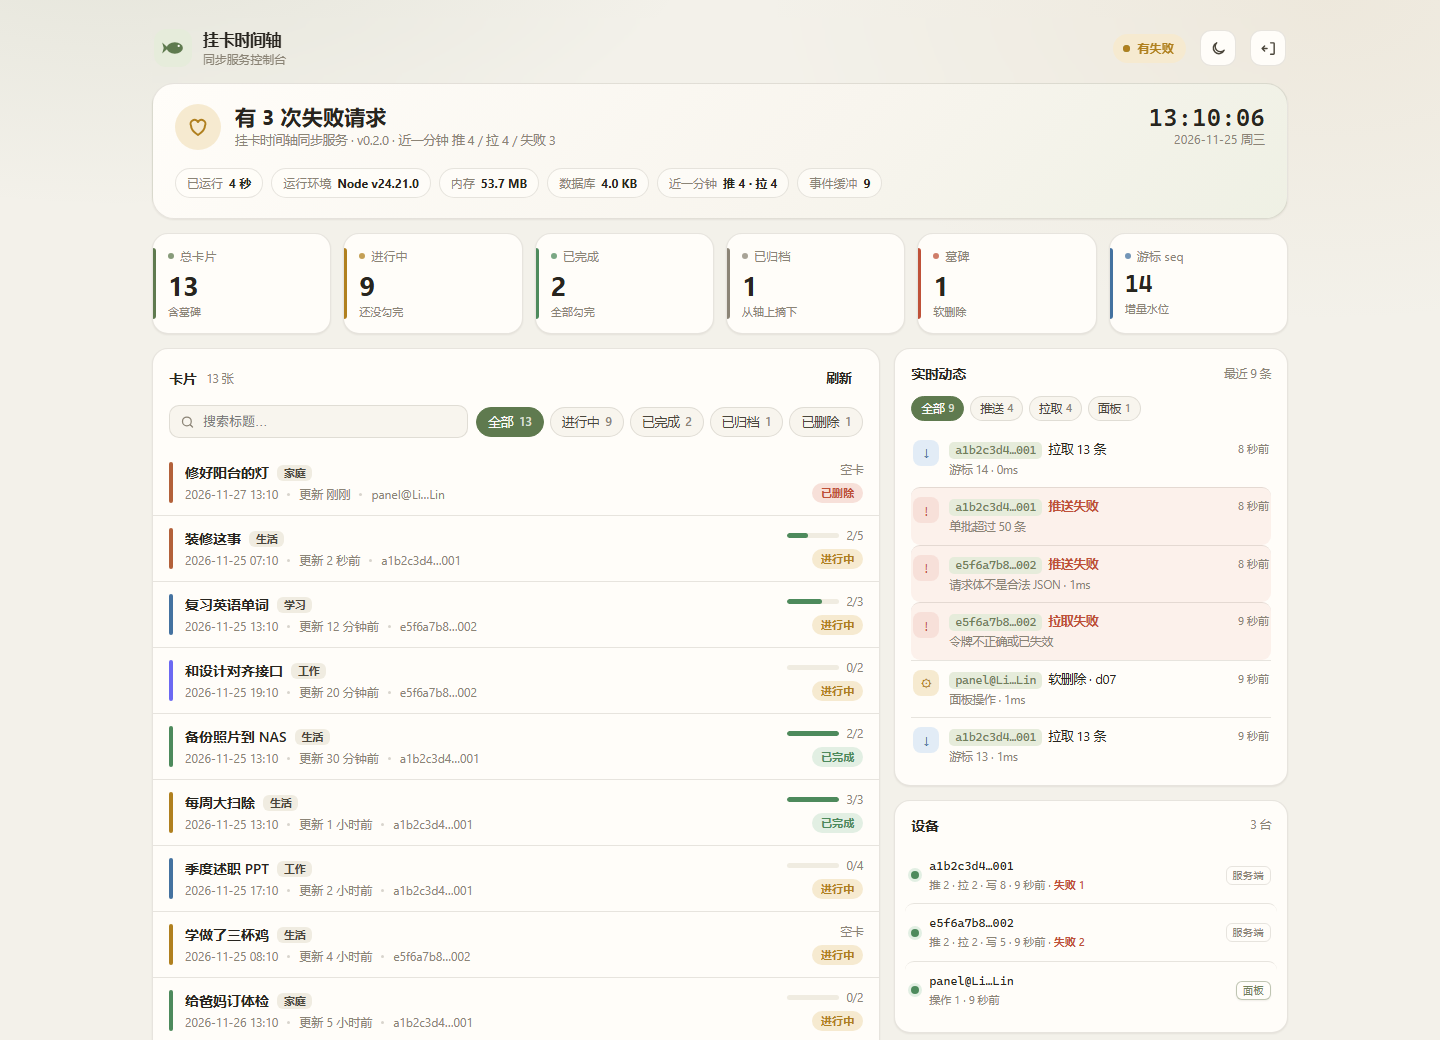
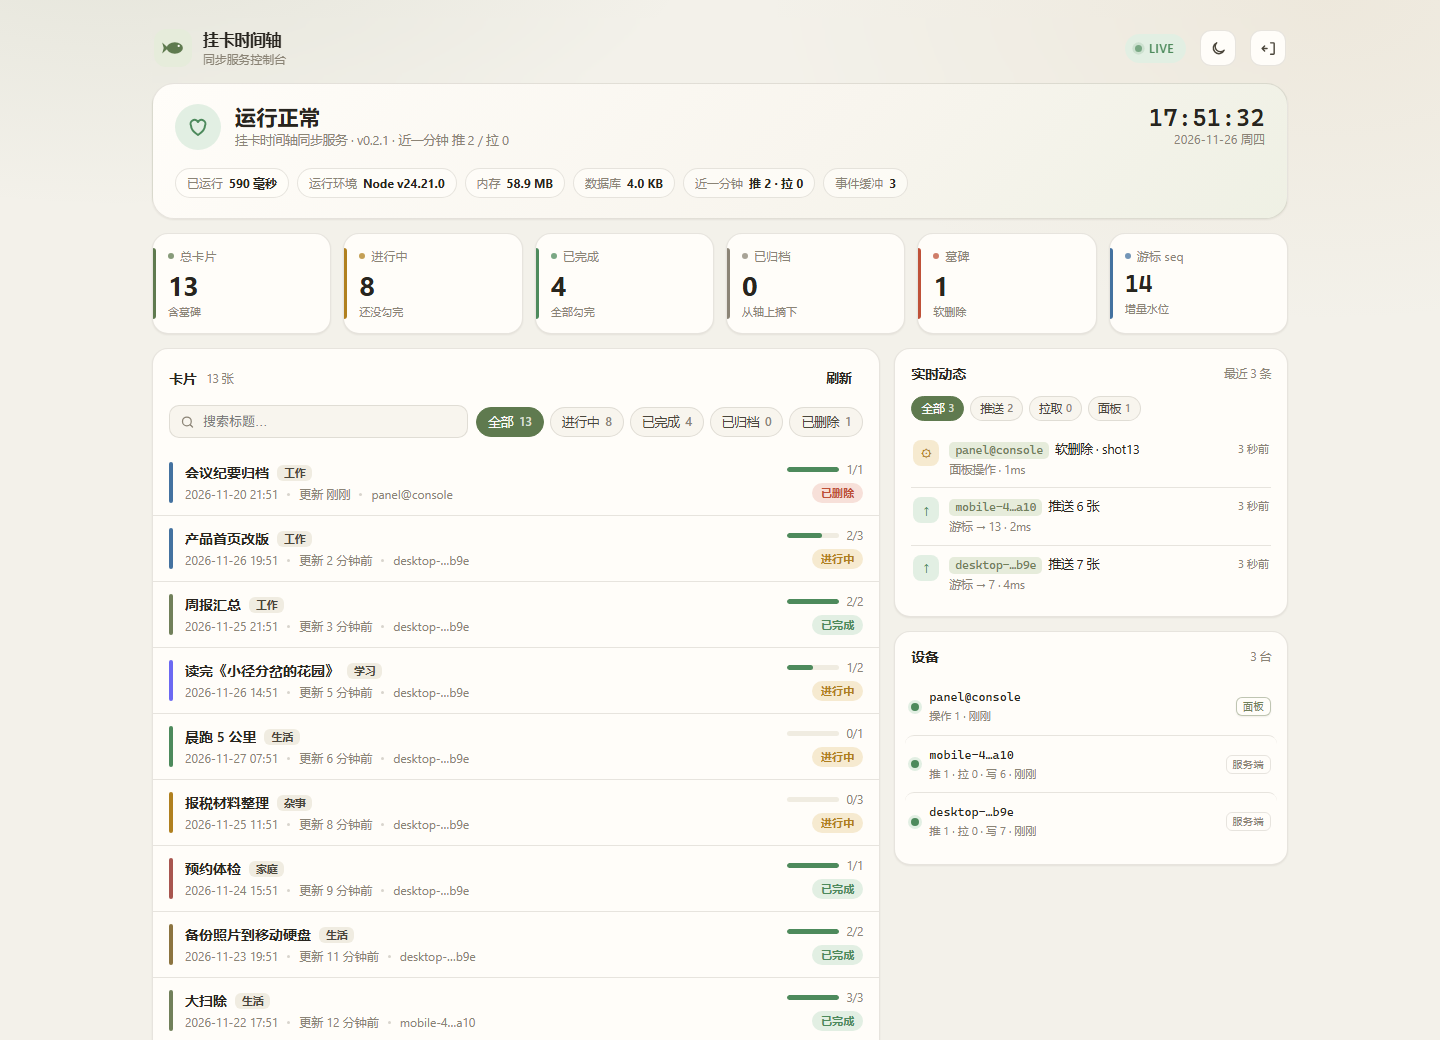
chore: 去隐私化 + 补齐使用说明
- 控制台不再把服务器主机名写进设备标签（统一 panel@console）
- 清掉开发脚本里的本机绝对路径、主机别名/内网端口等环境信息
- 桌面端 author 改成项目名义；.gitignore 不再点名某台机器
- 用中性示例数据重拍服务器控制台截图（旧图里有主机名和真实待办）
- 新增 docs/USAGE.md：挂卡 / 快捷键 / 备份 / 服务器部署 / 三端同步 / 排障
- README 补「服务器」下载项与使用说明入口
- server 0.2.1；桌面端 0.1.4

diff --git a/apps/desktop/_verify-remote.js b/apps/desktop/_verify-remote.js
@@ -1,12 +1,12 @@
 // 桌面端 ⇄ 远程 Linux 主机 真实同步测试
-// 通过 SSH 隧道（127.0.0.1:3701）连到 AM01 上跑的服务端，桌面端不启动本地服务器。
+// 通过 SSH 隧道（127.0.0.1:8787）连到 REMOTE 上跑的服务端，桌面端不启动本地服务器。
 const { spawn } = require('child_process')
 const fs = require('fs')
 const path = require('path')
 const os = require('os')
 
 const PORT_DBG = 9871
-const REMOTE = process.env.REMOTE_URL || 'http://127.0.0.1:3701'
+const REMOTE = process.env.REMOTE_URL || 'http://127.0.0.1:8787'
 const TOKEN = process.env.REMOTE_TOKEN || ''
 const BASE = __dirname
 const WORKSPACE = path.resolve(BASE, '..', '..')
@@ -206,7 +206,7 @@ async function main() {
         id: 'from-linux-host',
         title: 'Linux 主机上建的卡',
         items: [],
-        tag: 'AM01',
+        tag: 'REMOTE',
         color: '#71805a',
         anchorAt: now,
         createdAt: now,
@@ -216,8 +216,8 @@ async function main() {
         status: 'open'
       }
       await remotePush({
-        deviceId: 'am01-host',
-        changes: [{ card: remoteCard, deviceId: 'am01-host', op: 'create', clientAt: now }]
+        deviceId: 'remote-host',
+        changes: [{ card: remoteCard, deviceId: 'remote-host', op: 'create', clientAt: now }]
       })
 
       await c.eval(`window.timecard.sync.now()`)
@@ -226,7 +226,7 @@ async function main() {
       const local = readData()
       const got = local.cards.find((x) => x.id === 'from-linux-host')
       check('桌面端拉到 Linux 主机建的卡', !!got, got ? got.title : '没拉到')
-      check('拉下来的内容一致', got?.title === 'Linux 主机上建的卡' && got?.tag === 'AM01')
+      check('拉下来的内容一致', got?.title === 'Linux 主机上建的卡' && got?.tag === 'REMOTE')
     }
 
     /* ---------- 5. 冲突：远端更晚 → 桌面端被覆盖 ---------- */
@@ -234,11 +234,11 @@ async function main() {
       const localCard = readData().cards.find((x) => x.title === '从 Windows 桌面推过去的卡')
       const newer = Date.now() + 90000
       await remotePush({
-        deviceId: 'am01-host',
+        deviceId: 'remote-host',
         changes: [
           {
             card: { ...localCard, title: 'Linux 主机改名了', updatedAt: newer, rev: localCard.rev + 1 },
-            deviceId: 'am01-host',
+            deviceId: 'remote-host',
             op: 'update',
             clientAt: newer
           }

diff --git a/apps/server/src/admin.ts b/apps/server/src/admin.ts
@@ -63,7 +63,7 @@ export function createAdminApp(deps: AdminDeps): Hono {
   const admin = new Hono()
 
   /** 面板自己发起写操作时用的 deviceId —— 让设备列表能认出「这是面板干的」 */
-  const panelDevice = `panel@${runtime?.hostname ?? runtime?.kind ?? 'web'}`
+  const panelDevice = `panel@console`
 
   /**
    * 统计结果缓存。

diff --git a/apps/server/src/version.ts b/apps/server/src/version.ts
@@ -3,5 +3,6 @@
  *
  * 单独放一个文件，避免 admin.ts 与 app.ts 互相 import 造成循环依赖。
  * 0.2.0：新增观测层 + 管理 API + Web 控制台。
+ * 0.2.1：控制台卡片搜索覆盖「标题 / 分类 / 条目内容」。
  */
-export const SERVER_VERSION = '0.2.0'
+export const SERVER_VERSION = '0.2.1'

diff --git a/docs/USAGE.md b/docs/USAGE.md
@@ -1,0 +1,230 @@
+# 使用说明
+
+> 面向「装好了想用起来」的人。安装包怎么下、怎么装，见 [README 的下载安装](../README.md#下载安装)。
+
+---
+
+## 1. 三分钟上手
+
+1. 装桌面端（或手机端），打开就是「今日」：一条时间轴，卡片挂在某一天上
+2. 点 **＋ 挂一张**，写标题、可留空的分类、几条子待办 → 保存
+3. 卡片的勾选框点一下就完成；全部勾完的卡会自动变「已完成」
+4. 想多端同步：先跑起同步服务器（第 4 节），再在两端设置里填同一个地址 + 令牌（第 5 节）
+
+> 时间轴不是列表：**今天该做什么、哪张逾期了**，一屏就能看清。
+
+---
+
+## 2. 桌面端（Windows）
+
+### 2.1 挂卡与改卡
+
+| 想做的事 | 怎么做 |
+|---|---|
+| 挂一张新卡 | 界面里的 **＋ 挂一张**，或按 `Ctrl+Shift+Space` 呼出浮窗直接写 |
+| 改一张卡 | 点卡片 → 编辑器（标题 / 分类 / 条目 / 改期 / 卡片主色） |
+| 改期 | 编辑器里选日期，或**直接把卡片拖动**到另一天 |
+| 勾完成 | 点条目左边的方框；「全部打勾 / 取消」在卡片菜单里 |
+| 归档 | 卡片菜单 → 归档。归档的卡不再占时间轴，但**搜索还能找到**；可在编辑器里取消归档 |
+| 删除 | 卡片菜单 → 删除（软删除，界面右下角有「撤销」） |
+
+### 2.2 键盘与浮窗
+
+- `←` / `→` 逐天翻，`Home` 回到今天
+- `Ctrl+F` 全库搜索：标题、分类、**条目内容**都能搜，命中条目会单独标出来
+- `Ctrl+Shift+Space` 呼出/收起浮窗：置顶、无边框、`Esc` 收起；设置里能改快捷键和浮窗贴哪一边
+- 快捷键被别人占用时，设置里会直接标红提示「按下无反应」
+
+### 2.3 三套皮肤
+
+设置 → 外观：**自然有机**（米纸 + 衬线）、**野兽派**（黑线黄底 + 硬投影）、**新拟物质**（同色双向阴影）。三端同一套皮肤，切换即时生效。
+
+### 2.4 设置里的每一项
+
+| 分组 | 项 | 说明 |
+|---|---|---|
+| 外观 | 皮肤 | 三选一 |
+| 浮窗 | 全局快捷键 / 浮窗位置 / 打开浮窗 | 快捷键被占用会提示；位置可选贴左/贴右 |
+| 同步 | 启用同步 / 服务器地址 / 访问令牌 | 见第 5 节 |
+| 行为 | 关闭窗口时最小化到托盘 / 开机自动启动 | 关掉「最小化到托盘」后点 ✕ 就是退出 |
+| 数据 | 当前卡片 / 数据文件 / 导出备份 / 从备份导入 / 重置演示数据 / 清空全部卡片 | 见 2.5 |
+
+### 2.5 备份与导入
+
+- **导出备份**：生成一个 JSON（格式标记 `timecard-backup`）。**备份里不含同步令牌**，可以放心丢网盘
+- **从备份导入**：按卡片 `id` 合并 —— 同一张卡取「更新的那份」，**不会清空现有卡片**
+- 「清空全部卡片」之后再导入也能救回来：备份里还活着的卡会覆盖本地墓碑
+- 数据文件在 `%APPDATA%\Timecard\timecard.json`（设置里点得开目录）
+
+---
+
+## 3. 手机端（Android）
+
+| 想做的事 | 怎么做 |
+|---|---|
+| 新建 | 底部 **＋**，或列表中的「＋ 挂一张」 |
+| 改卡 / 打勾 | 点卡片打开编辑抽屉；条目直接在卡片上点 |
+| 翻日期 | 界面里的 `‹` `›`，或底部「日子条」点某天 |
+| 看逾期 | 逾期卡片自动带橙色标记并排到前面 |
+| 搜索 | 右上角搜索图标：标题 / 分类 / 条目内容 |
+| 归档 / 删除 | 编辑抽屉底部：归档；删除会先弹确认条（`删除「标题」？`） |
+| 立即同步 | 列表顶部**下拉**（松手触发），或设置 → 立即同步 |
+| 退出 | 硬件返回键：先关抽屉/筛选，再退出应用 |
+
+> 手机端本地数据存在应用私有目录里，**卸载即清空**。跨设备靠同步，重要的东西建议在桌面端再导出一份备份。
+
+---
+
+## 4. 跑同步服务器
+
+服务器是一个**零依赖单文件**，有 Node 就能跑。
+
+### 4.1 最快：本机/小主机直接起
+
+```bash
+# 从 Releases 下载 Timecard-<版本>-server.mjs
+export TIMECARD_TOKEN=$(node -e "console.log(require('crypto').randomBytes(32).toString('base64url'))")
+node Timecard-0.1.4-server.mjs
+# 控制台： http://127.0.0.1:8787/
+```
+
+| 环境变量 | 默认 | 说明 |
+|---|---|---|
+| `PORT` | `8787` | 监听端口 |
+| `HOST` | `127.0.0.1` | 只想本机用就别改；对外一律走反代/隧道，别裸绑 `0.0.0.0` |
+| `TIMECARD_TOKEN` | 无 | **访问令牌**，不设就是完全开放，仅限本地开发 |
+| `TIMECARD_DB` | `./data/timecard.sqlite` | 数据库文件路径 |
+
+要求 **Node ≥ 22.5**（用了内置的 `node:sqlite`）。
+
+### 4.2 常驻（systemd user 单元）
+
+```ini
+# ~/.config/systemd/user/timecard-sync.service
+[Unit]
+Description=Timecard sync server
+After=network.target
+
+[Service]
+Type=simple
+ExecStart=/usr/local/bin/node /home/你/timecard-sync/server.mjs
+WorkingDirectory=/home/你/timecard-sync
+Environment=PORT=3701
+Environment=HOST=127.0.0.1
+Environment=TIMECARD_DB=/home/你/timecard-sync/data/timecard.sqlite
+EnvironmentFile=/home/你/.config/timecard-sync/env   # 里面放 TIMECARD_TOKEN=...
+Restart=on-failure
+RestartSec=5
+
+[Install]
+WantedBy=default.target
+```
+
+```bash
+systemctl --user daemon-reload && systemctl --user enable --now timecard-sync
+loginctl enable-linger "$USER"   # 断线也不被杀
+```
+
+### 4.3 给别人/别的网络用
+
+- **隧道/反代**（推荐）：服务仍绑 `127.0.0.1`，用 Cloudflare Tunnel、Caddy、nginx 把 HTTPS 转发进来
+- **局域网**：改成绑内网地址 + 防火墙只放行内网段
+- 无论哪种，`/api/admin/*` 与同步接口都用**同一个 Bearer 令牌**保护；控制台页面本身只是个填令牌的壳
+
+### 4.4 Cloudflare Workers + D1
+
+```bash
+npx wrangler d1 create timecard     # 把 database_id 填进 wrangler.toml
+npx wrangler secret put TIMECARD_TOKEN
+npx wrangler deploy
+```
+
+### 4.5 控制台能干什么
+
+浏览器打开服务器根路径，输入令牌后可以：
+
+- 看运行状态（版本、内存、数据库体积、最近一分钟推/拉次数、事件缓冲）
+- 卡片浏览：按状态筛（全部 / 进行中 / 已完成 / 已归档 / 已删除）、按标题/分类/条目搜
+- 打开单卡详情：条目、时间、`rev`、`seq`、原始 JSON，可**软删除 / 恢复**
+- 实时动态：推送、拉取、控制台操作，可按类型或设备过滤
+- 设备列表：哪台设备推了多少、有几条失败
+- **导出全部** JSON、整理数据库
+
+### 4.6 备份、升级、卸载
+
+```bash
+# 备份（先停，避免 WAL 下拷到不一致快照）
+systemctl --user stop timecard-sync
+cp ~/timecard-sync/data/timecard.sqlite ~/timecard-sync/data/backup-$(date +%F).sqlite
+systemctl --user start timecard-sync
+
+# 升级：覆盖 server.mjs → 重启
+systemctl --user restart timecard-sync
+curl -s http://127.0.0.1:3701/api/health   # 看 version 是否变了
+
+# 卸载：停服务 + 删单元 + 删目录（数据一起没）
+systemctl --user disable --now timecard-sync
+rm -f ~/.config/systemd/user/timecard-sync.service && systemctl --user daemon-reload
+rm -rf ~/timecard-sync ~/.config/timecard-sync
+```
+
+---
+
+## 5. 让三端同步起来
+
+### 5.1 桌面端
+
+设置 → **同步**：勾「启用同步」→ 填服务器地址（如 `https://sync.example.com`，不要带结尾斜杠和 `/api`）+ 访问令牌 → 顶部状态点一下或按需要「立即同步」。
+
+### 5.2 手机端
+
+设置 → **同步**：同样的地址和令牌 → 下拉列表顶部或点「立即同步」。
+
+### 5.3 它怎么工作的
+
+- **离线优先**：改动先落本地，再进「待推送队列」（Outbox）；断网照常用，联网自动补推
+- **增量拉取**：服务器给每张卡一个自增游标 `seq`，客户端只拉「我还没见过的」
+- **冲突**：最后写入者胜 —— 先比 `updatedAt`，相同再比 `deviceId` 字典序。三端跑同一个 `isNewer()`，不会来回震荡
+- **永不物理删除**：删除只是打上 `deletedAt`，否则卡片会在别的设备上「复活」
+
+> 冲突粒度是**整张卡**：两端同时改同一张卡的不同条目，会有一端被整体覆盖。想避免就尽量别在两端同时改同一张卡。
+
+### 5.4 令牌换/泄露怎么办
+
+1. 改服务器上的 `TIMECARD_TOKEN` 并重启
+2. 三端设置里重新填新令牌
+3. 旧令牌立刻失效（没有多用户概念，一个令牌 = 一个数据库）
+
+---
+
+## 6. 常见问题
+
+| 现象 | 原因 / 处理 |
+|---|---|
+| 同步报 401 | 令牌不对，或服务器换了令牌但客户端没改 |
+| 连不上服务器 | 地址末尾多了 `/`；用的是 `http://` 但服务器只开了 HTTPS；隧道没开 |
+| 桌面端显示「有改动待推送」一直不消失 | 服务器连不上，改动在队列里等着；能连上后会自动推 |
+| 换了服务器，旧改动还在推 | 设置 → 同步 → **清空待推送队列** |
+| 手机上装不上 APK（小米提示「解析包错误 33」） | 别从浏览器下载面板直接点开，去 **文件管理 → 下载** 点安装；仍不行就用 `adb install -r` |
+| Windows 安装包被 SmartScreen 拦 | 没做代码签名：**更多信息 → 仍要运行** |
+| 卡片在一台设备上消失了 | 可能被另一台删除（软删会同步过来）。控制台可以「恢复」这张卡 |
+| 时间显示不对 | 卡片存的是时间戳，显示跟系统时区走；跨时区设备看起来会不一样 |
+
+---
+
+## 7. 数据在哪
+
+| 端 | 位置 | 备注 |
+|---|---|---|
+| 桌面端 | `%APPDATA%\Timecard\timecard.json` | 单文件 JSON；设置里可导出/导入备份 |
+| 手机端 | 应用私有目录（WebView localStorage） | 卸载即清空；靠同步或桌面端备份保命 |
+| 服务器 | `TIMECARD_DB` 指向的 SQLite 文件 | 一个文件就是全部数据，停服务后直接 `cp` 备份 |
+
+---
+
+## 8. 边界与安全
+
+- 个人自用工具：**一个令牌 = 一个数据库**，没有多用户、配额、限速
+- 令牌在客户端本地明文保存，合适放的是待办，不是密码本
+- 冲突处理是整卡覆盖（LWW），不是条目级合并
+- 暴露到公网前，请在反代/隧道层再加一层访问控制（Cloudflare Access、Basic Auth 等）

diff --git a/README.md b/README.md
@@ -17,6 +17,8 @@
 - **离线优先**：断网照常挂卡、打勾，联网后自动补推
 - **自托管**：同步服务器是个单文件，自己一台小机器就能跑，数据完全归自己
 
+> 怎么挂卡、快捷键、备份、服务器部署与排障，都在 **[使用说明](docs/USAGE.md)**。
+
 ---
 
 ## 界面预览
@@ -102,8 +104,9 @@ timecard/
 
 | 端 | 文件 | 说明 |
 |---|---|---|
-| Windows | `…-setup.exe` | 安装包未签名，首次运行会被 SmartScreen 拦一下：**更多信息 → 仍要运行** |
+| Windows | `Timecard-<版本>-setup.exe` | 安装包未签名，首次运行会被 SmartScreen 拦一下：**更多信息 → 仍要运行** |
 | Android | `Timecard-<版本>-android.apk` | 正式密钥签名（v1 + v2 + v3 全齐），支持 Android 6.0 及以上 |
+| 服务器 | `Timecard-<版本>-server.mjs` | 零依赖单文件，一条 `node` 命令就能跑（需要 Node ≥ 22.5） |
 
 **校验一下更稳**（能排除下载被截断这种「装不上」的常见原因）：
 
